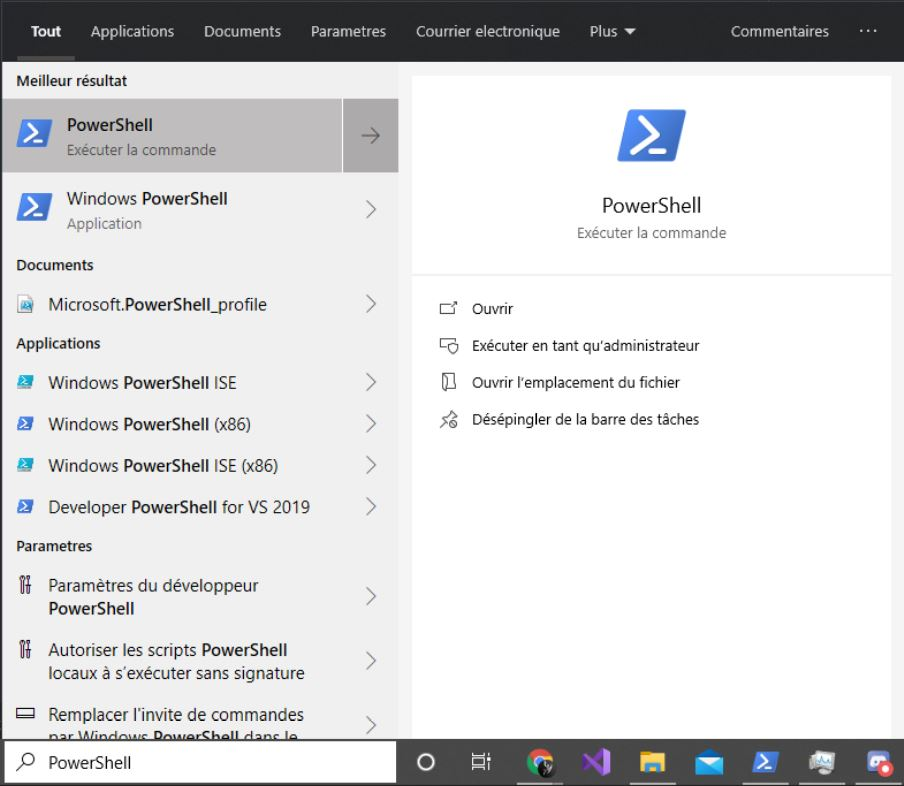
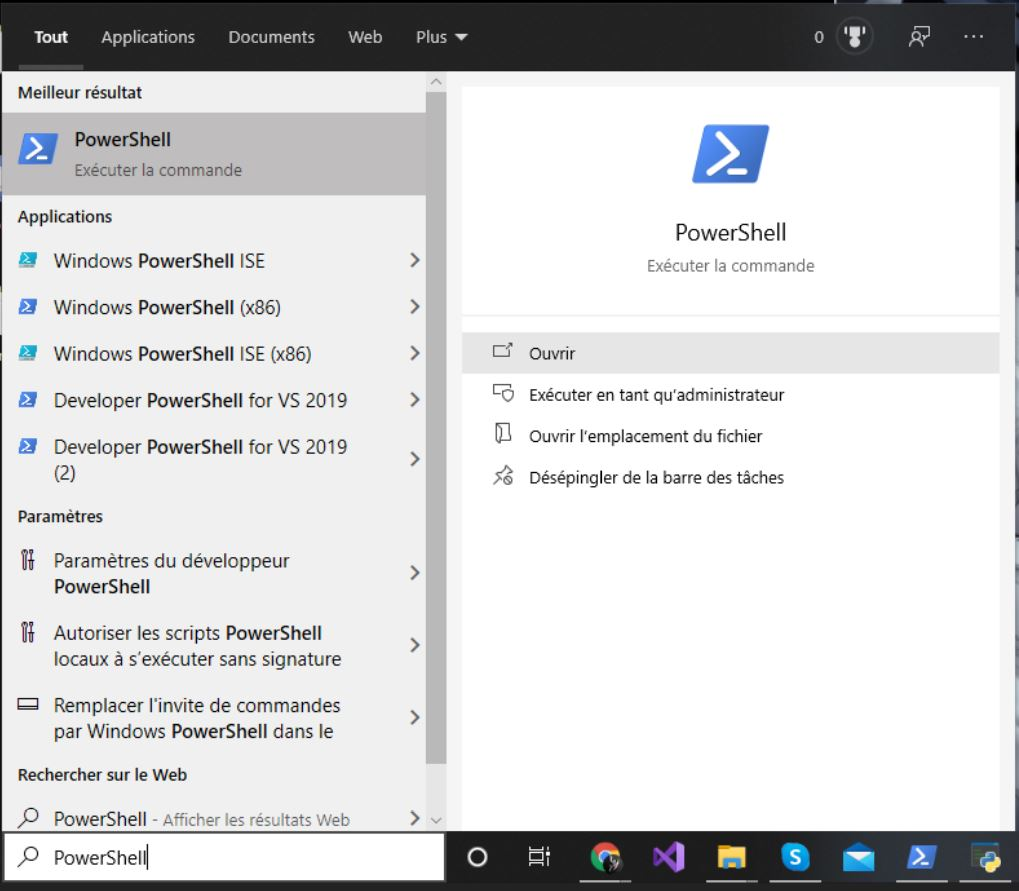
working on the documentation

diff --git a/docs/source/installation/windows10_installation.rst b/docs/source/installation/windows10_installation.rst
@@ -1,6 +1,8 @@
 .. :orphan: is used below to try to remove the following warning: checking consistency... /home/econdami/Git_Projects/populse_mia/docs/source/installation/windows10_installation.rst: WARNING: document isn't included in any toctree
+
 :orphan:
-.. toctree::
+
+   .. toctree::
 
 +-----------------------+------------------------------------------------------+-------------------------------------+--------------------------------------------------+
 |`Home <../index.html>`_|`Documentation <../documentation/documentation.html>`_|`Installation <./installation.html>`_|`GitHub <https://github.com/populse/populse_mia>`_|
@@ -22,23 +24,31 @@ Populse_mia's developer installation for windows 10
      :width: 400
      :align: center
 
-  * Click on Developer environment in the left column and activate the Sideload app;
+  |
+
+  * Click on Developer environment in the left column and activate the Sideload app
 
   .. image:: ../images/developer_mode.png
      :width: 400
      :align: center
 
+  |
+
   * You might need to restart your computer
+
+|
 
 * When you restarted your computer, open a PowerShell window on your computer:
 
-  * Click on the Start menu and type "PowerShell"
+  * Click on the Start menu and type ``PowerShell``
 
   .. image:: ../images/open_powershell.jpg
      :width: 300
      :align: center
 
-  * Run the PowerShell application.
+  * Run the PowerShell application
+
+|
 
 * Make sure you have Python installed. You can verify it by typing in PowerShell: ::
 
@@ -48,49 +58,62 @@ Populse_mia's developer installation for windows 10
 
   * If Python is not installed:
 
-    1. In PowerShell, type: ::
+    * In PowerShell, type: ::
 
         python3
 
-    2. The Microsoft Store will open on the Python 3.8 app, click on Install:
+    * The Microsoft Store will open on the Python 3.8 app, click on Install:
 
     .. image:: ../images/Python3.8.png
        :width: 500
        :align: center
 
-    3. Check in the shell PowerShell that Python and pip (pip is normally include in the install of Python) are installed: ::
+    |
 
-       python3 -V
-       pip3 --version
+    * Check in the shell PowerShell that Python and pip (pip is normally include in the install of Python) are installed: ::
+
+        python3 -V  
+        pip3 --version
+
+|
 
 * Make sure you have Git installed. You can verify it by typing in PowerShell: ::
 
     git --version
 
-  * If Git is not installed, you need to install it (`Here <https://git-scm.com/download/win>`_): ::
+  * If Git is not installed, you need to install it (`Here <https://git-scm.com/download/win>`_):
 
-      Download the executable for your specific distribution (64 or 32 bits).
-      Run it.
-      You will be asked many questions depending on you preferences, but the default parameters are enough.
+    * Download the executable for your specific distribution (64 or 32 bits).
+    * Run it.
+    * You will be asked many questions depending on you preferences, but the default parameters are enough.
+    * At the end of the git installation, you will need to restart PowerShell to restart the environment and be able to use Git.
 
-  * At the end of the git installation, you will need to restart PowerShell to restart the environment and be able to use Git.
+|
 
-* During the install, you will need C++ Build tools. You can get it by installing Visual Studio Build Tools 2019 and select C++ Build tools (`Here <https://www.microsoft.com/fr-fr/download/details.aspx?id=58317>`_): ::
+* During the install, you will need C++ Build tools. You can get it by installing Visual Studio Build Tools 2019 and select C++ Build tools (`Here <https://www.microsoft.com/fr-fr/download/details.aspx?id=58317>`_):
 
-  1. Download the executable file and run it.
+  * Download the executable file and run it.
 
-  2.The installation is in two parts, at the end of the first part a window with every module in charge by Visual Studio will open:
+  * The installation is in two parts, at the end of the first part a window with every module in charge by Visual Studio will open:
 
   .. image:: ../images/vs_Build.png
      :width: 500
      :align: center
 
-  3. Select the C++ Build Tools and install it.
+  * Select the C++ Build Tools and install it.
 
-* Install java 64-bits for Windows (`Here <https://java.com/fr/download/manual.jsp>`_): ::
+|
 
-    Download the offline (64 bits) file and run it
-    Follow the installation
+* Make sure you have java 64-bits installed. You can verify it by typing in PowerShell: ::
+
+    java -version
+
+  * If java 64-bits is not installed, you need to install it (`Here <https://java.com/fr/download/manual.jsp>`_):
+
+    * Download the offline (64 bits) file and run it
+    * Follow the installation
+
+|
 
 * Now you need to configure your java in order to be used by your system and PowerShell:
 
@@ -98,41 +121,45 @@ Populse_mia's developer installation for windows 10
 
   This operation needs administrator rights
 
-    1. In PowerShell, open a system properties window by typing: ::
+    * In PowerShell, open a system properties window by typing: ::
 
         sysdm.cpl
 
-    2. Click on the Advanced System Parameter;
+    * Click on the Advanced System Parameter
 
     .. image:: ../images/ASP_system_tab.png
        :width: 500
        :align: center
 
-    3. Click on Environment Variable ;
+|
 
-    4. Select Path in the system variables, and click on modify;
+    * Click on Environment Variable
+
+    * Select Path in the system variables, and click on modify
 
     .. image:: ../images/env_var.png
        :width: 500
        :align: center
 
-    5. Click on New;
+|
 
-    6. Paste the path to the folder containing YOUR java executable, it should LOOK like this: ::
+    * Click on New
+
+    * Paste the path to the folder containing YOUR java executable, it should LOOK like this: ::
 
         C:\Program Files\Java\jre1.8.0_251\bin
 
 * Enable the NTFS long path:
 
- .. warning::
+.. warning::
 
-    This operation needs administrator rights
+  This operation needs administrator rights
 
-    1. In PowerShell type: ::
+    * In PowerShell type: ::
 
         gpedit.msc
 
-    2. A Local Group Policy Editor window will open, then Navigate to:
+    * A Local Group Policy Editor window will open, then Navigate to:
 
       --> Local Compute Policy
       --> Computer Configuration
@@ -141,7 +168,7 @@ Populse_mia's developer installation for windows 10
       --> FileSystem
       --> NTFS
 
-    3. Double click on Enable NTFS long path and enable it.
+    * Double click on Enable NTFS long path and enable it.
 
     .. image:: ../images/NTFS.png
        :width: 500
@@ -149,8 +176,8 @@ Populse_mia's developer installation for windows 10
 
 * Populse_mia requires some specific package for Python and particularly numpy and PyQt5, you need to install them before launching the populse_mia installation: ::
 
-    pip3 install numpy --user # be sure to doin't forget the "\--user" at the end of the command, otherwise you might get issues from administrator rights
-    pip3 install PyQt5
+    pip3 install numpy --user # be sure to don't forget the "--user" at the end of the command, otherwise you might get issues from administrator rights
+    pip3 install PyQt5 --user # be sure to don't forget the "--user" at the end of the command, otherwise you might get issues from administrator rights
 
 * Get sources code from GitHub using HTTS or SSH in the directory of your choice (the current directory or replace the [mia_install_dir] with the directory of your choice): ::
 
@@ -162,7 +189,7 @@ Populse_mia's developer installation for windows 10
     cd [mia_install_dir]
     python3 setup.py install --user
 
-  *Note : make sure to don't forget '\--user' at the end of the command. If not you might get access errors linked with administrators rights.
+  * Note: make sure to don't forget '\--user' at the end of the command. If not you might get access errors linked with administrators rights.
 
 * Then, run Populse_mia :
 
@@ -208,9 +235,9 @@ Populse_mia's developer installation for windows 10
 
     ../../spm12_r****/spm12
 
-      *Note : in this scenario you only need to check Use SPM Standalone in the Pipeline tab MIA preferences.
+    * Note: in this scenario you only need to check Use SPM Standalone in the Pipeline tab MIA preferences.
 
-* For developing process, make sure to work on your own branch ::
+* For developing process, make sure to work on your own branch: ::
 
       git checkout -b your_branch_name # creates your own branch locally
       git push -u origin your_branch_name # creates your own branch remotely
@@ -218,96 +245,7 @@ Populse_mia's developer installation for windows 10
 |
 |
 |
-|
-
-``Coming from old README:``
- * From source, for Windows 10 distribution, please see [Populse_MIA’s developer installation](https://populse.github.io/populse_mia/html/installation/developer_installation.html)
- 	 * First assure that you have activated the developer mode for Windows in the parameters : (```You will need administrator right for this```)
-	 	* Click on start and parameters ;
-		* Go in Update & Security ;
-		* Click on For developer in the left column and activate the Sideload app ;
-		* You might need to restart you computer.
-	 * Open a PowerShell window on your computer :
-	 	* Click on start menu and type "PowerShell" ;
-		* Run the PowerShell application.
- 	 * A compatible version of Python must be installed, to verify it, type in PowerShell :
-
-			python3 -V
-
-	 *Note : depending on your versions, you might need to use "python -V" instead of "python3 -V" to check you version of Python
-
-	 * If you don't have python, you need to install it :
-
-	 	1. In PowerShell type :
-
-                python3
-
-		2. The Microsoft Store will open with the Python 3.8 app. Click on install ;
-		3. Install it on your computer ;
-		4. Reopen PowerShell and check that Python and pip are installed :
-
-			    python3 -V
-			    pip3 --version
-
-	 * Install a Version Control System, for example [git](https://git-scm.com/download/win). Depending of your distribution, [package management system](https://en.wikipedia.org/wiki/Package_manager) can be different
-
-	 	   Download the executable for your specific distribution (64 or 32 bits)
-		   Execute it
-		   You will be asked many questions depending on your preferences, but the default parameters are enough
-
-	  * At the end of the git installation you will need to restart PowerShell to refresh the environment
-
-      * Populse_mia requires java 64-bits for running, you can install it [here](https://java.com/fr/download/manual.jsp) :
-
-            Download and run the file
-            Follows the installation
-
-      * Now you need to configure your java in order to be use by your system : (```You will need administrator right for this```)
-
-        1. In PowerShell, open a system properties windows by typing :
-
-                sysdm.cpl
-
-        2. Click on the Advanced System Parameter ;
-        3. Click on Environment Variable ;
-        4. Select Path in system variable, and click on modify ;
-        5. Click New ;
-        6. Paste the path to the folder containing your java executable, it should look like this :
-
-                C:\Program Files\Java\jre1.8.0_251\bin
-
-      * Enable the NTFS long path (```You will need administrator right for this```) :
-
-        1. In PowerShell type :
-
-                gpedit.msc
-
-        2. A Local Group Policy Editor window will open, then navigate to :
-            --> Local Compute Policy
-            --> Computer Configuration
-            --> Administrator Template
-            --> System
-            --> FileSystem
-            --> NTFS
-        3. Double click Enable NTFS long path and enable it.
-
-      * Populse_mia requires some specific package for Python and particularly numpy and PyQt5, you need to install them before launching the populse_mia installation :
-
-            pip3 install numpy --user # Be sure to don't forget "--user" at the end of the command, otherwise you might get issues from administrator rights
-            pip3 install PyQt5 --user
-
-      * Get source codes from Github. Replace [mia_install_dir] with a directory of your choice
-
-	        git lfs clone https://github.com/populse/populse_mia.git [mia_install_dir]
-
-	  * Or download the zip file (populse_mia-master.zip) of the project ([green button "Clone or download"](https://github.com/populse/populse_mia)), then extract the data in the directory of your choice [mia_install_dir]
-
-	        unzip populse_mia-master.zip -d [mia_install_dir]  # In this case [mia_install_dir] becomes [mia_install_dir]/populse_mia-master
-
-	  * Install the Python module distribution
-
-	         cd [mia_install_dir]  
-	         python3 setup.py install --user # Ensure that you use python >= 3.5 | Be sure to don't forget "--user" at the end of the command, otherwise you might get	access issues from administrators rights.
+nexts lines must be deleted ASAP:
 
 # Usage
 
@@ -343,8 +281,5 @@ Populse_mia's developer installation for windows 10
 
         python3 -m populse_mia
 
-  * Depending on the operating system used, it was observed some compatibility issues with PyQt5/SIP. In this case, we recommend, as a first attempt, to do:
 
-        python3 -m pip install --force-reinstall pyqt5==5.14.0
-        python3 -m pip install --force-reinstall PyQt5-sip==5.0.1
 
